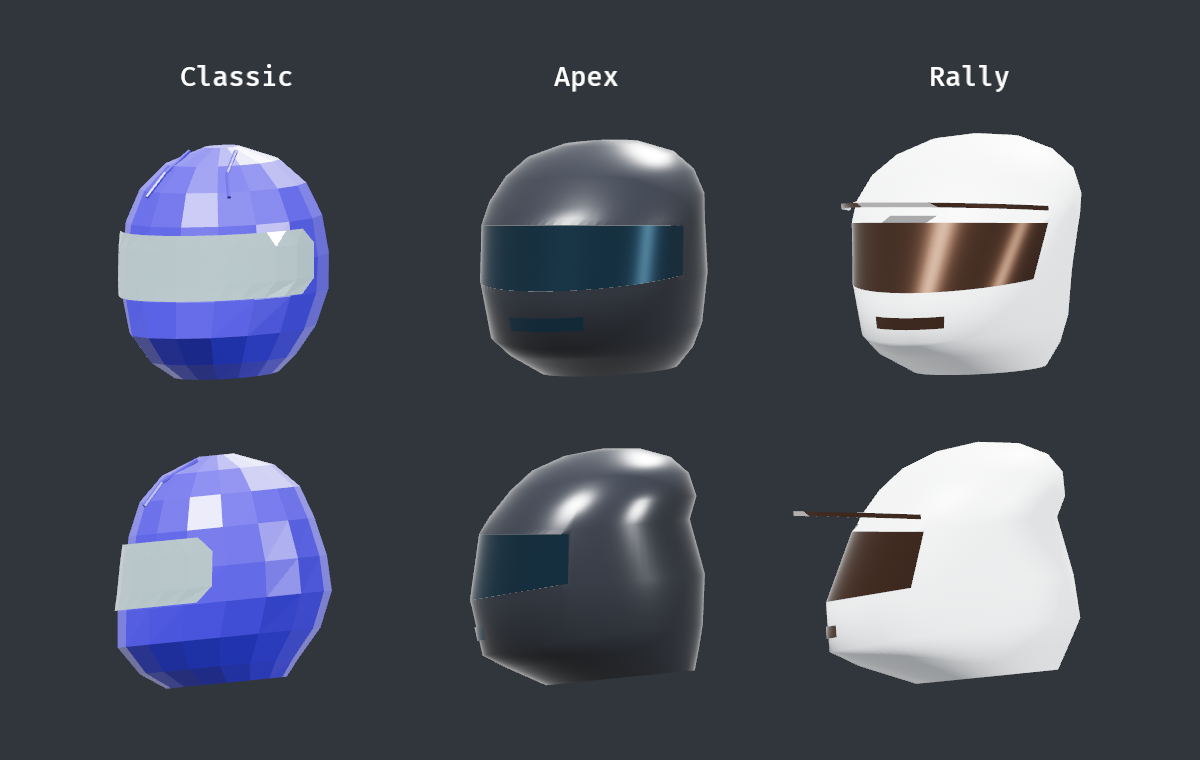
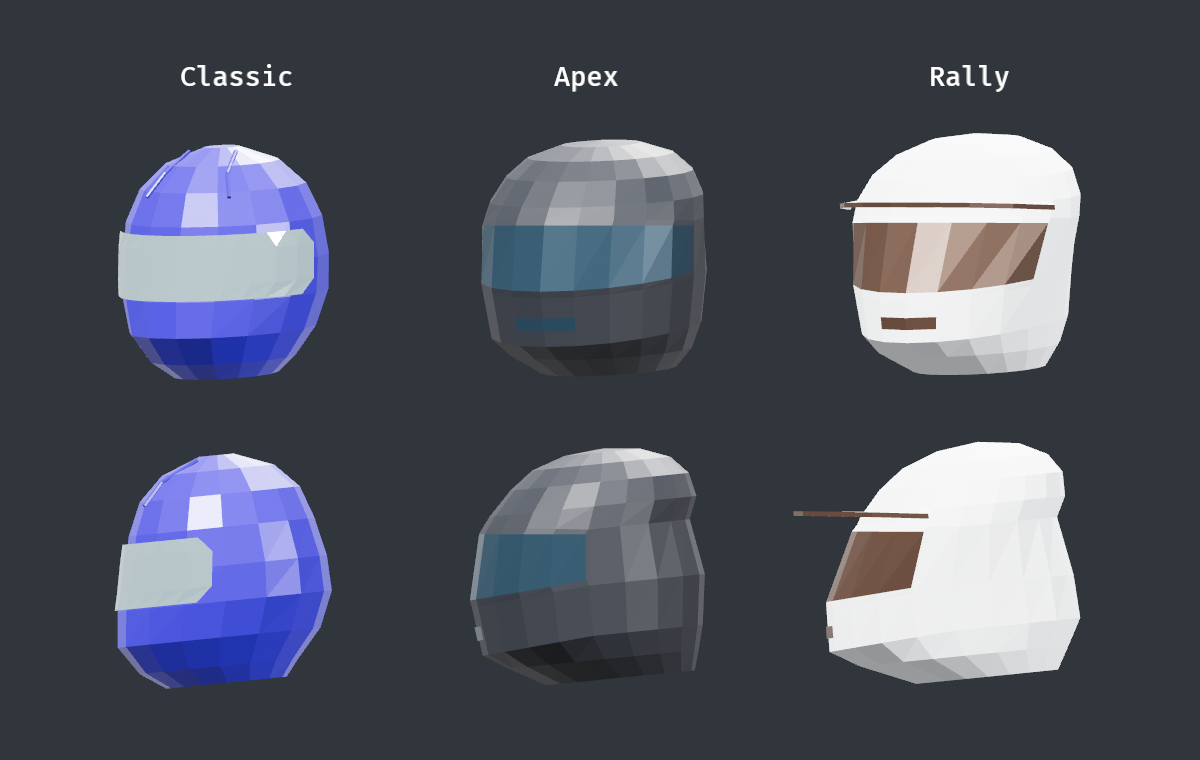
fix: match full rider colorways and facet replacement helmets

diff --git a/src/models/gear.rs b/src/models/gear.rs
@@ -94,6 +94,17 @@ pub(super) struct HelmetModel {
     pub visor_material: Handle<StandardMaterial>,
 }
 
+// Secondary leather colors observed in the same order as the City roster.
+pub(super) const PANELS: [u32; 15] = [
+    0xe5e2d7, 0xb6ab3a, 0x25272c, 0x333bbf, 0x98235f, 0x42bb54, 0xe9e8e2, 0xaeb7c8, 0x7985a9,
+    0x24262b, 0xccccd3, 0xd7b64d, 0x419ecf, 0xb22c28, 0xd2b74b,
+];
+
+pub(super) const LEATHER: [u32; 15] = [
+    0xc22d27, 0x973481, 0xbc9b32, 0x339e3f, 0x74829c, 0x237a38, 0x343943, 0x293fa9, 0x783524,
+    0x393d43, 0x8032ac, 0x308138, 0x47a02f, 0x313640, 0x8a3bb4,
+];
+
 #[derive(Default)]
 struct HelmetGeometry {
     positions: Vec<Vec3>,
@@ -117,7 +128,6 @@ impl HelmetGeometry {
     }
 
     fn mesh(self, head: Transform) -> Mesh {
-        let count = self.positions.len();
         let mut mesh = Mesh::new(
             PrimitiveTopology::TriangleList,
             RenderAssetUsages::default(),
@@ -130,7 +140,9 @@ impl HelmetGeometry {
                 .collect::<Vec<_>>(),
         );
         mesh.insert_indices(Indices::U32(self.indices));
-        mesh.compute_smooth_normals();
+        mesh.duplicate_vertices();
+        mesh.compute_flat_normals();
+        let count = mesh.count_vertices();
         mesh.insert_attribute(
             Mesh::ATTRIBUTE_JOINT_INDEX,
             VertexAttributeValues::Uint16x4(vec![[1, 0, 0, 0]; count]),
@@ -147,10 +159,10 @@ impl HelmetModel {
         head: Transform,
         helmet: Helmet,
     ) -> Self {
-        const STEPS: u32 = 80;
+        const STEPS: u32 = 20;
         const FRONT: u32 = STEPS / 2;
         let rally = helmet == Helmet::Rally;
-        let eye = if rally { 16 } else { 18 };
+        let eye = if rally { 4 } else { 5 };
         let rings = if rally {
             [
                 (-0.021, 0.110, 0.120, -0.004),
@@ -245,10 +257,10 @@ impl HelmetModel {
         }
         if rally {
             // A swept visor peak, with a raised middle and tapered side mounts.
-            for step in FRONT - 15..FRONT + 15 {
+            for step in FRONT - 4..FRONT + 4 {
                 let edge = |step| {
                     let mount = point(5, step);
-                    let t = (step as f32 - FRONT as f32) / 15.;
+                    let t = (step as f32 - FRONT as f32) / 4.;
                     let reach = (1. - t * t).max(0.);
                     let tip =
                         mount + Vec3::new(0.010 * t, 0.027 * reach - 0.007, 0.104 * reach + 0.008);
@@ -262,7 +274,7 @@ impl HelmetModel {
             }
         }
         // Intake grilles follow the front contour instead of floating on a flat plane.
-        for step in FRONT - 5..FRONT + 5 {
+        for step in FRONT - 1..FRONT + 1 {
             let vent = |step, height| point(2, step).lerp(point(3, step), height) + Vec3::Z * 0.003;
             lens_geometry.quad([
                 vent(step, 0.31),
@@ -278,14 +290,14 @@ impl HelmetModel {
             visor,
             shell_material: materials.add(StandardMaterial {
                 base_color: swatch(if rally { 0xdce0e4 } else { 0x20242b }),
-                metallic: 0.15,
-                perceptual_roughness: if rally { 0.52 } else { 0.29 },
+                metallic: 0.0,
+                perceptual_roughness: if rally { 0.69 } else { 0.58 },
                 ..default()
             }),
             visor_material: materials.add(StandardMaterial {
                 base_color: swatch(if rally { 0x49352a } else { 0x203947 }),
-                metallic: 0.84,
-                perceptual_roughness: 0.21,
+                metallic: 0.36,
+                perceptual_roughness: 0.39,
                 ..default()
             }),
         }

diff --git a/src/models.rs b/src/models.rs
@@ -89,6 +89,7 @@ impl AuthoredModels {
         let decoded =
             rr_content::riding_model::decode(BUNDLE).expect("validated authored visual bundle");
         let base = server.map(|s| s.load("textures/rider-base.png"));
+        let leather = server.map(|s| s.load("textures/rider-leather.png"));
         let officer_base = server.map(|s| s.load("textures/officer-base.png"));
         let normal = server.map(|s| {
             s.load_builder()
@@ -182,23 +183,30 @@ impl AuthoredModels {
                 mesh.set_morph_targets(targets);
             }
             let region = &data.material.region;
-            let variants = if matches!(region.as_str(), "shirt" | "helmet" | "paint") {
-                15
-            } else {
-                1
-            };
+            let painted_leather = skinned && region == "body" && !has_glove;
+            let variants =
+                if painted_leather || matches!(region.as_str(), "shirt" | "helmet" | "paint") {
+                    15
+                } else {
+                    1
+                };
             let mut palette = Vec::new();
             for color in 0..variants {
                 let tint = match region.as_str() {
-                    "shirt" => world::shirt_color(color),
+                    "shirt" => swatch(gear::PANELS[color]),
                     "helmet" => swatch(world::HELMET_COLORS[color]),
                     "paint" => swatch(world::BIKE_COLORS[color]),
+                    _ if painted_leather => swatch(gear::LEATHER[color]),
                     _ => Color::WHITE,
                 };
                 let mat = if skinned {
                     StandardMaterial {
                         base_color: tint,
-                        base_color_texture: base.clone(),
+                        base_color_texture: if painted_leather {
+                            leather.clone()
+                        } else {
+                            base.clone()
+                        },
                         normal_map_texture: normal.clone(),
                         metallic_roughness_texture: roughness.clone(),
                         metallic: if region == "visor" { 0.9 } else { 0.12 },
@@ -259,7 +267,7 @@ impl AuthoredModels {
                     .map(|helmet| gear::HelmetModel::build(meshes, materials, head, helmet))
             }),
             hand_contacts,
-            textures: [base, normal, roughness, officer_base]
+            textures: [base, leather, normal, roughness, officer_base]
                 .into_iter()
                 .flatten()
                 .collect(),

diff --git a/tools/build_rider_leather.py b/tools/build_rider_leather.py
@@ -1,0 +1,11 @@
+#!/usr/bin/env python3
+"""Lift dark rider atlas texels so the leather takes a separate palette tint."""
+from pathlib import Path
+
+from PIL import Image
+
+root = Path(__file__).resolve().parents[1] / "assets" / "textures"
+base = Image.open(root / "rider-base.png").convert("RGB")
+# Keep dark seams and baked highlights while lifting the leather's albedo.
+leather = base.point([round(255 * (channel / 255) ** 0.50) for channel in range(256)] * 3)
+leather.save(root / "rider-leather.png", optimize=True)

diff --git a/src/models/tests.rs b/src/models/tests.rs
@@ -856,7 +856,7 @@ fn local_gear_swaps_mesh_and_material_handles_through_recovery() {
                 }
             }
         }
-        assert_eq!(changed_suit, if suit == Suit::Player { 0 } else { 3 });
+        assert_eq!(changed_suit, if suit == Suit::Player { 0 } else { 6 });
         assert_eq!(
             changed_helmet,
             if helmet == Helmet::Classic { 0 } else { 6 }

diff --git a/README.md b/README.md
@@ -241,7 +241,7 @@ This migration branch pins **Rust 1.97.1, Bevy 0.20.1, bevy_rapier3d 0.37.0 and 
 <details>
 <summary>Recent verification audit — 10 completed tasks</summary>
 
-- [x] **GEAR-02** Expose the original Windows City roster’s fifteen named suit colorways and compare the three helmet models. Reason: user requests the original color variations and isolated helmet renders; part:12; dependencies: GEAR-01 and reference-informed rider palettes; acceptance: all fifteen colors on the existing suit, Classic helmet coordinated with the selected colorway, black Apex and white Rally, saved IDs supported and helmet-only renders; verification: gear selection regression and native preview. [Evidence](docs/testing/rider-gear/REPORT.md#original-roster-colors). [Full suit sheet and helmet redesign](docs/testing/rider-gear/REPORT.md#helmet-redesign-and-full-suit-sheet).
+- [x] **GEAR-02** Expose the original Windows City roster’s fifteen named suit colorways and compare the three helmet models. Reason: user requests the original color variations and isolated helmet renders; part:12; dependencies: GEAR-01 and reference-informed rider palettes; acceptance: all fifteen colors on the existing suit, Classic helmet coordinated with the selected colorway, black Apex and white Rally, saved IDs supported and helmet-only renders; verification: gear selection regression and native preview. [Evidence](docs/testing/rider-gear/REPORT.md#original-roster-colors). [Full two-color suit sheet and faceted helmets](docs/testing/rider-gear/REPORT.md#two-color-leather-and-faceted-helmets).
 
 - [x] **GEAR-01** Add independently selectable player suit finishes and helmet meshes. Reason: establish the first equippable cosmetics for career mode; part:12; dependencies: authored rider UV atlas and preferences; acceptance: two new textures on the existing suit, two new helmet models, live local selection and saved defaults, with render-only gear through recovery; verification: settings and skin-swap tests and native recovery captures. [Evidence](docs/testing/rider-gear/REPORT.md).
 

diff --git a/docs/PROGRESS.md b/docs/PROGRESS.md
@@ -564,7 +564,7 @@ pending terrain and crossing verification gates.
 
 ### Part 00 — Completed and verified foundations
 
-- [x] **GEAR-02** Expose the original Windows City roster’s fifteen named suit colorways and compare the three helmet models. Reason: user requests the original color variations and isolated helmet renders; part:12; dependencies: GEAR-01 and reference-informed rider palettes; acceptance: all fifteen colors on the existing suit, Classic helmet coordinated with the selected colorway, black Apex and white Rally, saved IDs supported and helmet-only renders; verification: gear selection regression and native preview. [Evidence](testing/rider-gear/REPORT.md#original-roster-colors). [Full suit sheet and helmet redesign](testing/rider-gear/REPORT.md#helmet-redesign-and-full-suit-sheet).
+- [x] **GEAR-02** Expose the original Windows City roster’s fifteen named suit colorways and compare the three helmet models. Reason: user requests the original color variations and isolated helmet renders; part:12; dependencies: GEAR-01 and reference-informed rider palettes; acceptance: all fifteen colors on the existing suit, Classic helmet coordinated with the selected colorway, black Apex and white Rally, saved IDs supported and helmet-only renders; verification: gear selection regression and native preview. [Evidence](testing/rider-gear/REPORT.md#original-roster-colors). [Full two-color suit sheet and faceted helmets](testing/rider-gear/REPORT.md#two-color-leather-and-faceted-helmets).
 
 - [x] **GEAR-01** Add independently selectable player suit finishes and helmet meshes. Reason: establish the first equippable cosmetics for career mode; part:12; dependencies: authored rider UV atlas and preferences; acceptance: two new textures on the existing suit, two new helmet models, live local selection and saved defaults, with render-only gear through recovery; verification: settings and skin-swap tests and native recovery captures. [Evidence](testing/rider-gear/REPORT.md).
 

diff --git a/docs/testing/rider-gear/REPORT.md b/docs/testing/rider-gear/REPORT.md
@@ -77,3 +77,18 @@ visible in the resulting image. The Rally Hills recovery fixture passed both
 remounts and reached results with zero exceptional rescues. Locked builds,
 strict Clippy, formatting, roadmap and asset checks passed. Workspace
 tests retained the two known Rapier failures.
+
+## Two-color leather and faceted helmets
+
+The updated [suit sheet](suit-colorways.png) shows both color regions. The
+secondary leather follows the locally inspected Windows City remap sheet,
+including red and white on Player, gold and black on Cydney Bass, and green
+and blue on Hog. The RGB values are hand-matched approximations. The leather
+albedo is derived from RoadDash's own atlas with its original UVs. Regenerate
+it with `python3 tools/build_rider_leather.py`. The retail reference stays
+outside the repository.
+
+The updated [helmet sheet](helmet-redesign.png) shows the 20-segment,
+flat-shaded Apex and Rally shells and visors. The eyeports, chin guards and
+Rally peak are retained in the lower-poly geometry. Their materials use
+broader highlights to match the existing rider better.

diff --git a/docs/DECISIONS.md b/docs/DECISIONS.md
@@ -4889,3 +4889,11 @@ Build the eyeport into both replacement shells and fit each visor to its
 opening. Give Apex a compact full-face chin bar and Rally an extended chin
 guard with a swept peak. Render every named suit on the shared game mesh
 for review. [Native renders](testing/rider-gear/REPORT.md#helmet-redesign-and-full-suit-sheet).
+
+## ADR192 — Full rider colorways and faceted helmets
+
+Give the main leather and accent panels independent palette tints based
+on the local Windows City reference sheet. Lift the existing rider albedo
+for the leather region so the secondary colors read while retaining seams.
+Use flat normals and fewer shell segments for Apex and Rally.
+[Updated previews](testing/rider-gear/REPORT.md#two-color-leather-and-faceted-helmets).

diff --git a/docs/CHANGELOG_DEV.md b/docs/CHANGELOG_DEV.md
@@ -1,5 +1,9 @@
 # Development history
 
+## 2026-11-13 — Two-color leather and faceted helmets (ADR192)
+
+- Colored the main leather separately across the City roster and matched the replacement helmets to the faceted rider style.
+
 ## 2026-11-13 — Helmet shapes and suit sheet (ADR191)
 
 - Reworked the Apex and Rally shells and rendered all fifteen rider colorways.
